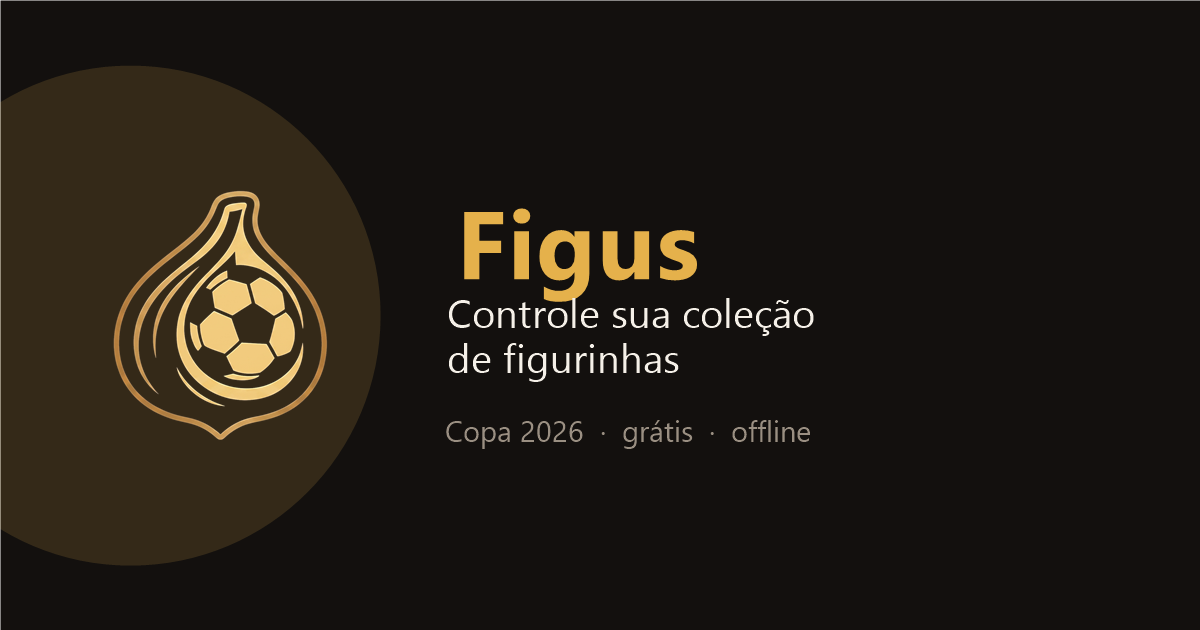
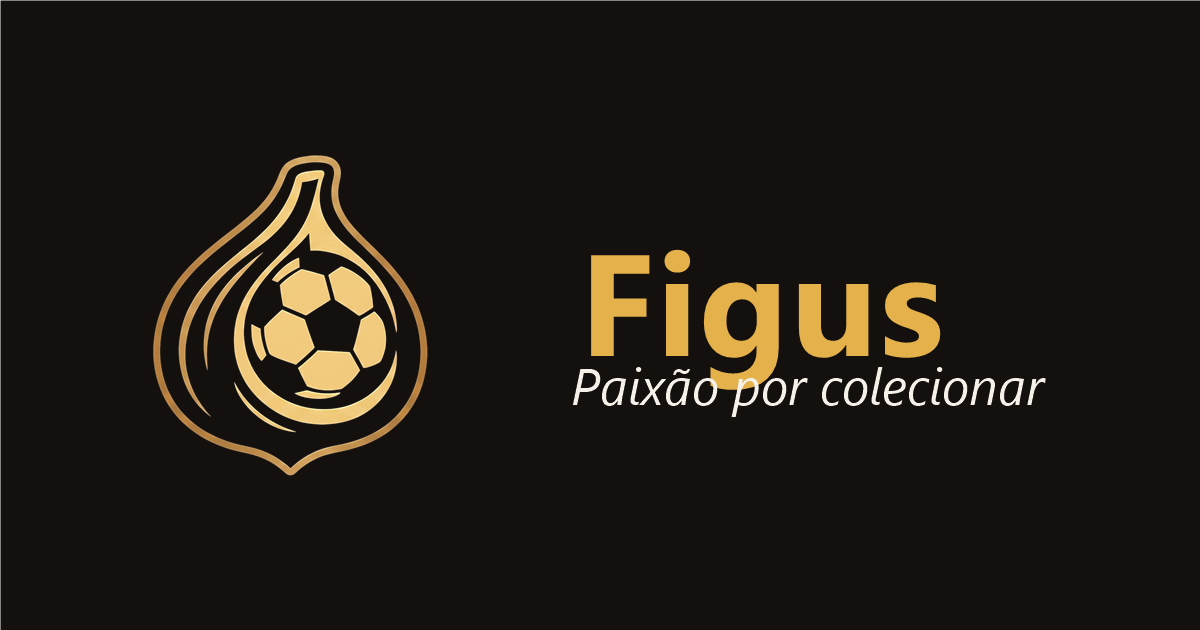
polish: OG card limpa (sem halo) + slogan 'Paixão por colecionar'
Daniel: 'Logo ficou pequeno num círculo escuro, não entendi pq. E
precisamos de um slogan no lugar do controle sua coleção de
figurinhas. Talvez algo na linha paixão por colecionar ou algo
assim. Seja criativo. Do lado direito tem o nome do app e uns
textos q não dá pra ler em baixo. Melhor só logo e nome.'

Mudanças na OG card (tool/make_og_card.ps1 → figus-og-card.png):

1. Halo dourado atrás do logo REMOVIDO. Antes tinha um circulo
   escuro/dourado decorativo de 500x500 que o WhatsApp comprimiu e
   virou aquele 'logo pequeno num circulo escuro'.

2. Logo aumentado de 280px → 360px. Agora ocupa o espaço sem
   precisar de moldura.

3. Texto à direita reduzido a 2 linhas:
   - 'Figus' em dourado 108pt (era 72pt)
   - 'Paixão por colecionar' em italic 38pt — slogan emocional que
     Daniel sugeriu.

4. Removidas as 3 linhas que não dava pra ler:
   - 'Controle sua coleção / de figurinhas' (subtitle)
   - 'Copa 2026 · grátis · offline' (muted)

web/index.html: og:title virou 'Figus — paixão por colecionar',
og:description e <title> alinhados. Mesmo slogan em todos os pontos
de toque (preview WhatsApp, browser tab, Twitter card).

Changed region(s): [[0.0, 0.0905, 0.8633, 0.9048], [0.37, 0.6635, 0.4933, 0.7238]]

diff --git a/web/index.html b/web/index.html
@@ -18,15 +18,15 @@
 
   <meta charset="UTF-8">
   <meta content="IE=Edge" http-equiv="X-UA-Compatible">
-  <meta name="description" content="Figus é o melhor app para controlar sua coleção de figurinhas — Copa do Mundo 2026 e mais.">
+  <meta name="description" content="Figus — paixão por colecionar. Marque o que tem, descubra as melhores trocas e complete seu álbum.">
 
   <!-- Open Graph tags so WhatsApp/Telegram/Facebook show a rich preview
        (logo + título + descrição) instead of just the raw URL when the
        user shares "comparar trocas" via chat. -->
   <meta property="og:type" content="website">
   <meta property="og:site_name" content="Figus">
-  <meta property="og:title" content="Figus — controle sua coleção de figurinhas">
-  <meta property="og:description" content="Marque o que tem, descubra as melhores trocas e complete o álbum da Copa 2026.">
+  <meta property="og:title" content="Figus — paixão por colecionar">
+  <meta property="og:description" content="Marque o que tem, descubra as melhores trocas e complete seu álbum.">
   <meta property="og:image" content="https://sampaiodaniel.github.io/figus/figus-og-card.png">
   <meta property="og:image:width" content="1200">
   <meta property="og:image:height" content="630">
@@ -35,8 +35,8 @@
 
   <!-- Twitter Card mirrors Open Graph for the Twitter/X preview. -->
   <meta name="twitter:card" content="summary_large_image">
-  <meta name="twitter:title" content="Figus — controle sua coleção de figurinhas">
-  <meta name="twitter:description" content="Marque o que tem, descubra as melhores trocas e complete o álbum da Copa 2026.">
+  <meta name="twitter:title" content="Figus — paixão por colecionar">
+  <meta name="twitter:description" content="Marque o que tem, descubra as melhores trocas e complete seu álbum.">
   <meta name="twitter:image" content="https://sampaiodaniel.github.io/figus/figus-og-card.png">
 
   <!-- iOS meta tags & icons -->
@@ -52,7 +52,7 @@
   <link rel="icon" type="image/png" sizes="512x512" href="figus-512.png"/>
   <link rel="icon" type="image/png" href="favicon.png"/>
 
-  <title>Figus — controle sua coleção de figurinhas</title>
+  <title>Figus — paixão por colecionar</title>
   <link rel="manifest" href="manifest.json">
 </head>
 <body>